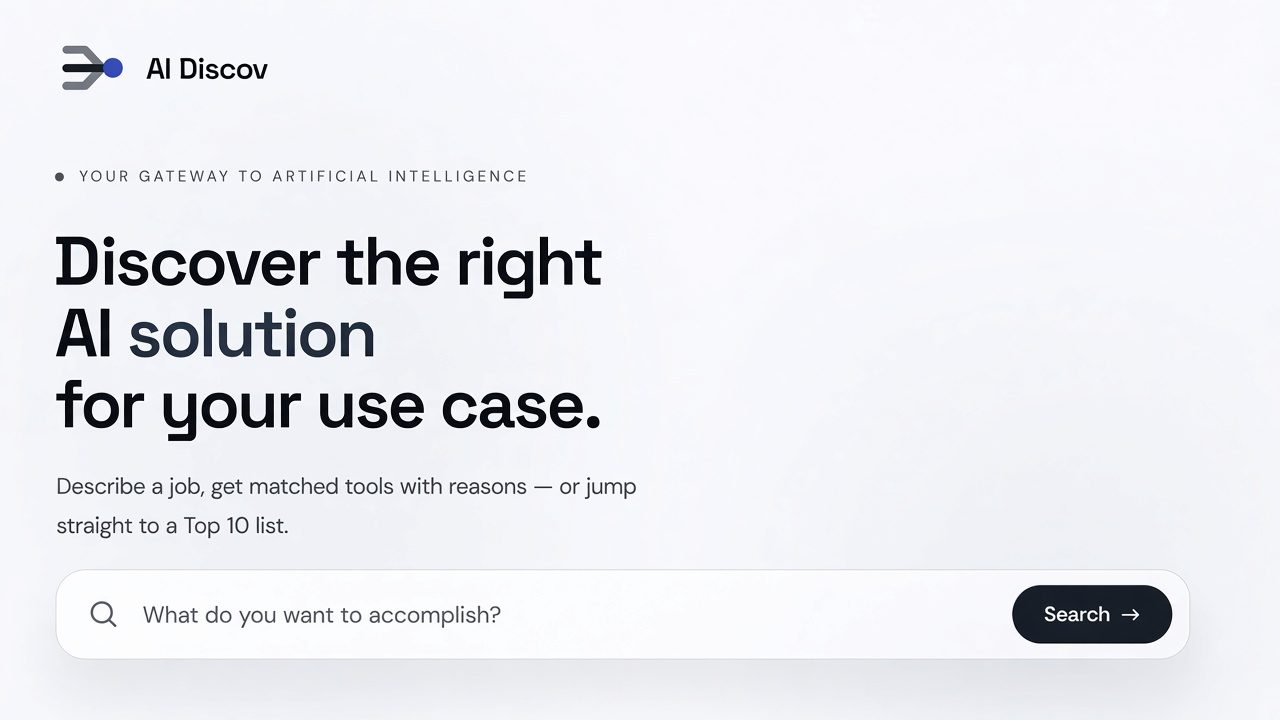
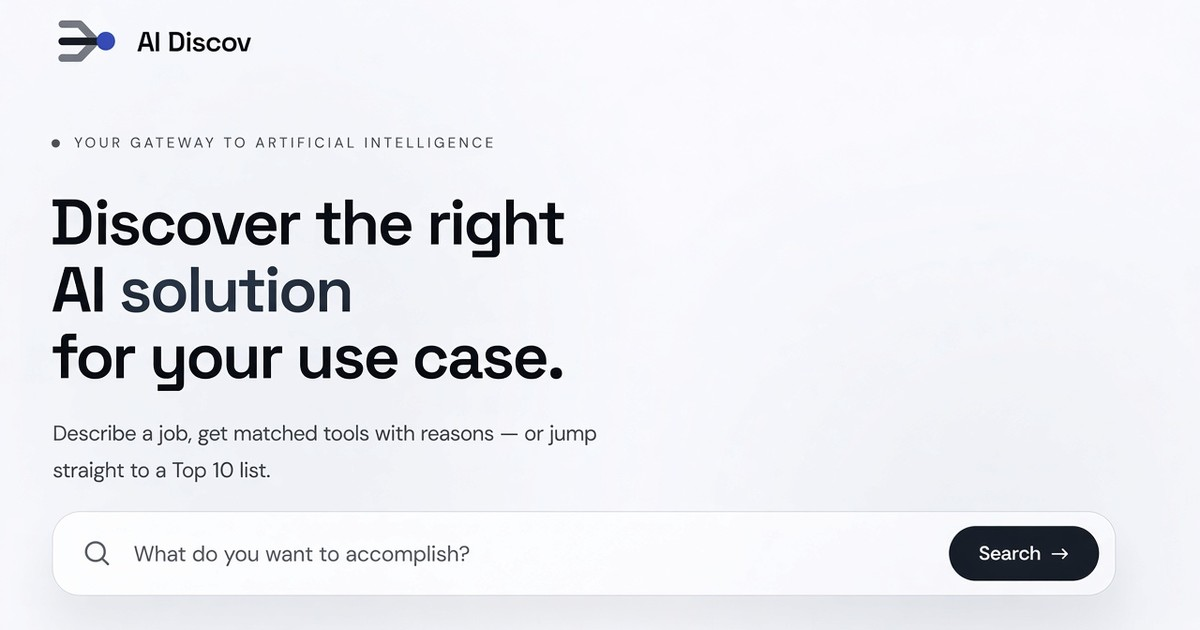
fix home OG image to landscape 1200x630 for social previews

diff --git a/index.html b/index.html
@@ -46,14 +46,19 @@
     <meta property="og:site_name" content="AI Discov" />
     <meta property="og:locale" content="en_US" />
     <meta property="og:url" content="https://aidiscov.com/" />
-    <meta property="og:image" content="https://aidiscov.com/brand/aidiscov-mark-dark.png" />
+    <meta property="og:image" content="https://aidiscov.com/brand/aidiscov-og-home.jpg" />
+    <meta property="og:image:width" content="1200" />
+    <meta property="og:image:height" content="630" />
+    <meta property="og:image:type" content="image/jpeg" />
+    <meta property="og:image:alt" content="AI Discov — Find the right AI solution for your needs" />
     <meta name="twitter:card" content="summary_large_image" />
     <meta name="twitter:title" content="AI Discov — Find the right AI solution for your needs" />
     <meta
       name="twitter:description"
       content="Describe what you want to accomplish and find verified AI solutions with clear explanations and comparisons."
     />
-    <meta name="twitter:image" content="https://aidiscov.com/brand/aidiscov-mark-dark.png" />
+    <meta name="twitter:image" content="https://aidiscov.com/brand/aidiscov-og-home.jpg" />
+    <meta name="twitter:image:alt" content="AI Discov — Find the right AI solution for your needs" />
     <link rel="icon" href="/brand/favicon.png" type="image/png" />
     <link rel="apple-touch-icon" href="/brand/aidiscov-mark-dark.png" />
     <link rel="preconnect" href="https://fonts.googleapis.com" />
